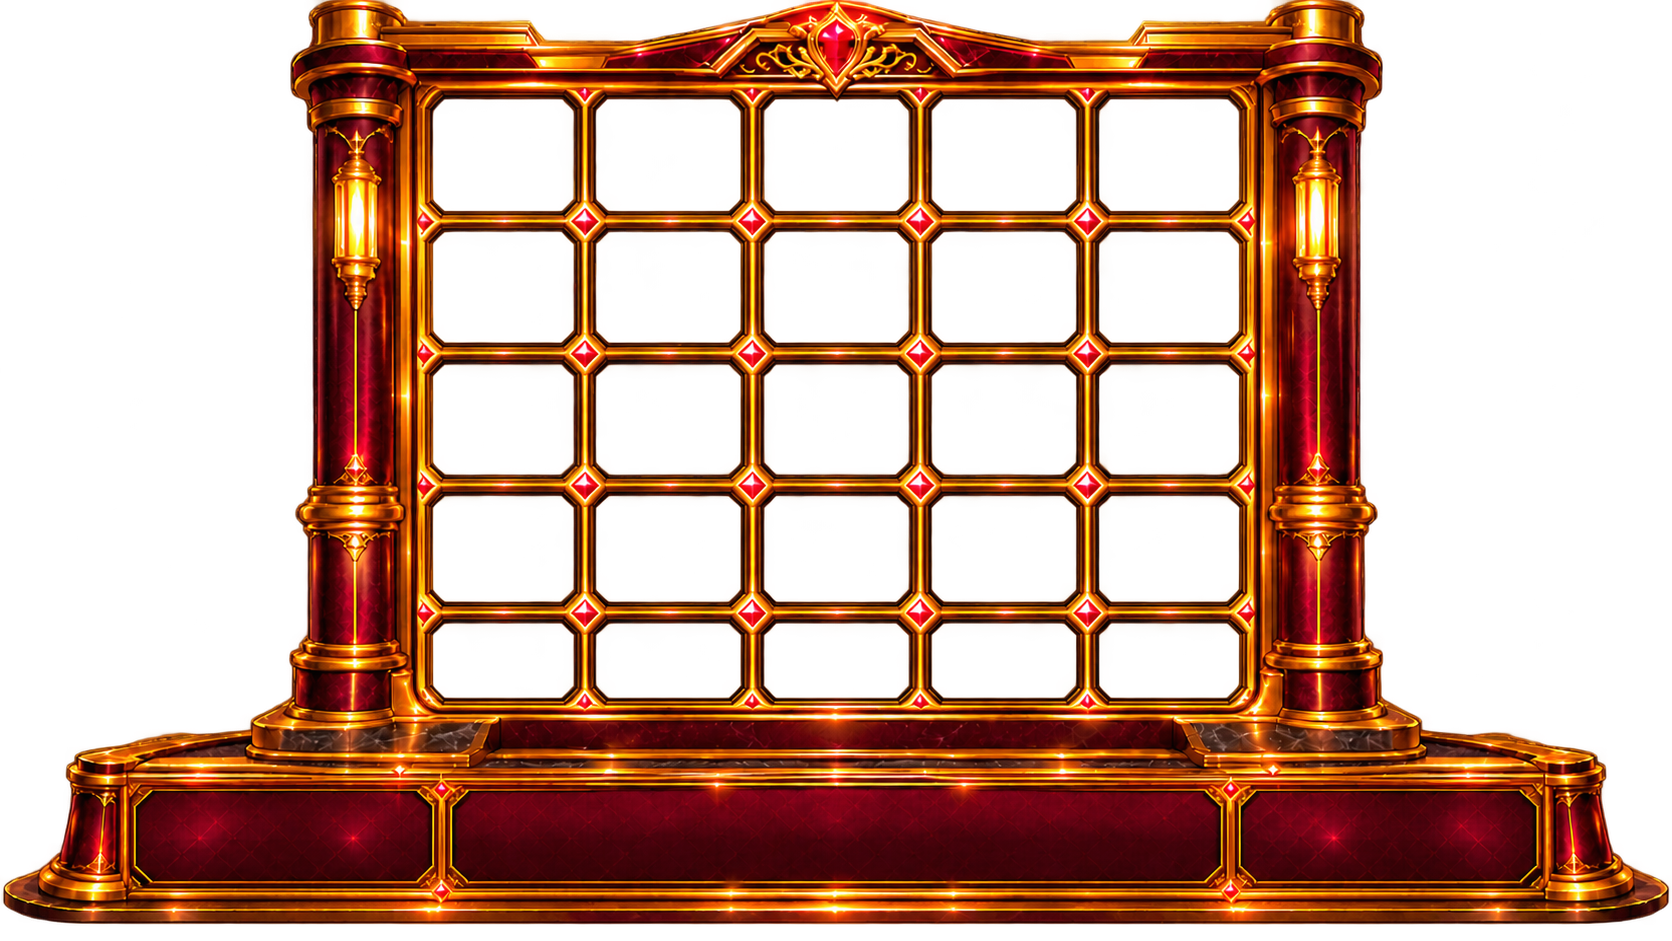
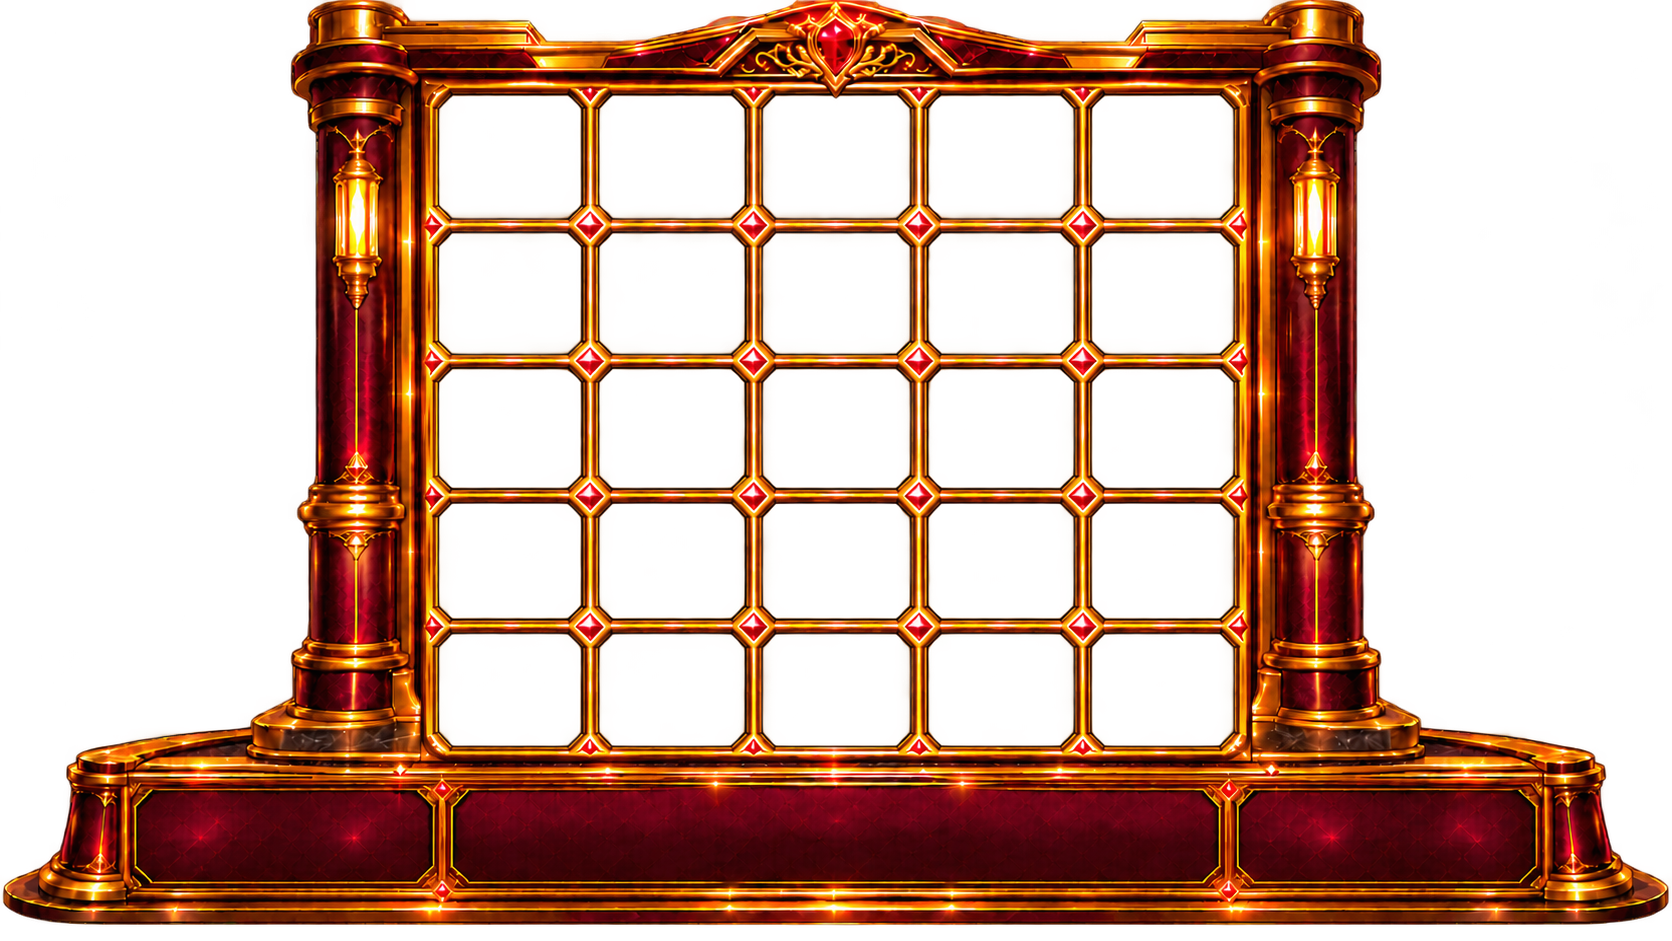
feat: new uniform 5x5 frame layers, tier sizes x1.3, brighter woman, darker spin/stop

Changed region(s): [[0.0, 0.0, 1.0, 0.9862]]

diff --git a/frontend/apps/poc/src/game/skyjump_v2/presentationLayout.ts b/frontend/apps/poc/src/game/skyjump_v2/presentationLayout.ts
@@ -98,41 +98,39 @@ export const V2_PANEL_DECOR = {
  */
 export const V2_SLOT_BOARD_FRAME = {
 	/**
-	 * `slot_background_1/2.png` (1672x941, 5x5 windows). The playfield is a 5x5 block of nominal cell pitches
-	 * (166.75 x 130.25 art px) centred on the windows; per-cell offsets to the real windows are in V2_FRAME_WINDOWS.
+	 * `slot_background_1/2.png` (1672x941, 5x5 windows of equal size). The playfield is a 5x5 block of nominal
+	 * cell pitches (163.25 x 134.75 art px) centred on the windows; exact rects are in V2_FRAME_WINDOWS.
 	 */
-	holeLeft: 0.251,
-	holeRight: 0.7496,
-	holeTop: 0.0961,
-	holeBottom: 0.7882,
+	holeLeft: 0.2565,
+	holeRight: 0.7447,
+	holeTop: 0.0947,
+	holeBottom: 0.8107,
 	scale: 1,
-	/** Nominal cell pitch aspect (166.75 / 130.25). */
-	cellAspect: 1.28,
+	/** Nominal cell pitch aspect (163.25 / 134.75). */
+	cellAspect: 1.2115,
 } as const;
 
-/** The frame's real windows in art pixels (1672x941). The last row is cut short by the frame's bottom bar. */
+/** The frame's real windows in art pixels (1672x941). */
 export const V2_FRAME_WINDOWS = {
 	art: { w: 1672, h: 941 },
 	/** Nominal grid: origin and pitch, art px. */
-	origin: { x: 419.6, y: 90.4 },
-	pitch: { w: 166.75, h: 130.25 },
-	colX: [433, 596, 765, 932, 1100],
-	colW: [140, 144, 143, 144, 139],
-	rowY: [100, 232, 365, 496, 624],
-	/** Visible window height per row. */
-	rowH: [111, 110, 109, 105, 73],
-	/** Full tile height per row (the last row's tile is cut by the frame, not squashed). */
-	tileH: [111, 110, 109, 105, 105],
+	origin: { x: 428.9, y: 89.1 },
+	pitch: { w: 163.25, h: 134.75 },
+	colX: [440, 600, 764, 929, 1093],
+	colW: [141, 144, 145, 144, 140],
+	rowY: [96, 234, 370, 504, 635],
+	rowH: [121, 119, 117, 114, 110],
+	tileH: [121, 119, 117, 114, 110],
 } as const;
 
 /**
- * Symbol size by tier, relative to the cell height. Each regular tier is 1.5x the previous one
+ * Symbol size by tier, relative to the cell height. Each regular tier is 1.3x the previous one
  * (low -> medium -> premium); scatter, Concierge / Mystery and feature symbols match premium.
  * Settled symbols are drawn above the frame, so they may grow past their window.
  */
 export const V2_TIER_SCALE: Record<string, number> = {
-	low: 0.6,
-	medium: 0.9,
+	low: 0.8,
+	medium: 1.04,
 	premium: 1.35,
 	scatter: 1.35,
 	concierge_mystery: 1.35,

diff --git a/frontend/apps/poc/src/components/skyjump/LoungeCharacter.svelte b/frontend/apps/poc/src/components/skyjump/LoungeCharacter.svelte
@@ -12,7 +12,7 @@
 		$props();
 
 	/** Matched to the bartender's upper body (the trousers skew his whole-figure mean): luminance mean ~60, spread ~46. */
-	const WOMAN_TONE = 'brightness(0.66) contrast(1.05)';
+	const WOMAN_TONE = 'brightness(0.85) contrast(1.05)';
 
 	const ASPECT = CHARACTER_FRAME[character].w / CHARACTER_FRAME[character].h;
 

diff --git a/frontend/apps/poc/src/components/midnightLoungeBetUi/MidnightLoungeBetUI.svelte b/frontend/apps/poc/src/components/midnightLoungeBetUi/MidnightLoungeBetUI.svelte
@@ -758,6 +758,8 @@
 	}
 
 	.spin img {
+		/* 10 % darker than the artwork. */
+		filter: brightness(0.9);
 		display: block;
 		width: 100%;
 		height: 100%;

diff --git a/docs/midnight-lounge-character-animation.md b/docs/midnight-lounge-character-animation.md
@@ -321,3 +321,8 @@ Fixed after the guideline review (verified against a local mock RGS, a productio
 - Symbol size by tier (`V2_TIER_SCALE`, relative to cell height): low 0.6, medium 0.9, premium 1.35 (x1.5 per regular tier);
   scatter, concierge/mystery and feature use the premium size.
 - Woman tone: `brightness(0.66) contrast(1.05)` (matched to the bartender's upper body).
+
+## Frame v3 and tuning
+
+- `slot_frame_layer1/2.png` (second delivery, uniform windows) are now `slot_background_1/2.png`; window rects in `V2_FRAME_WINDOWS`.
+- Tier sizes: low 0.8, medium 1.04, premium 1.35 (x1.3 per regular tier). Woman: `brightness(0.85) contrast(1.05)`. SPIN/STOP image: `brightness(0.9)`.
